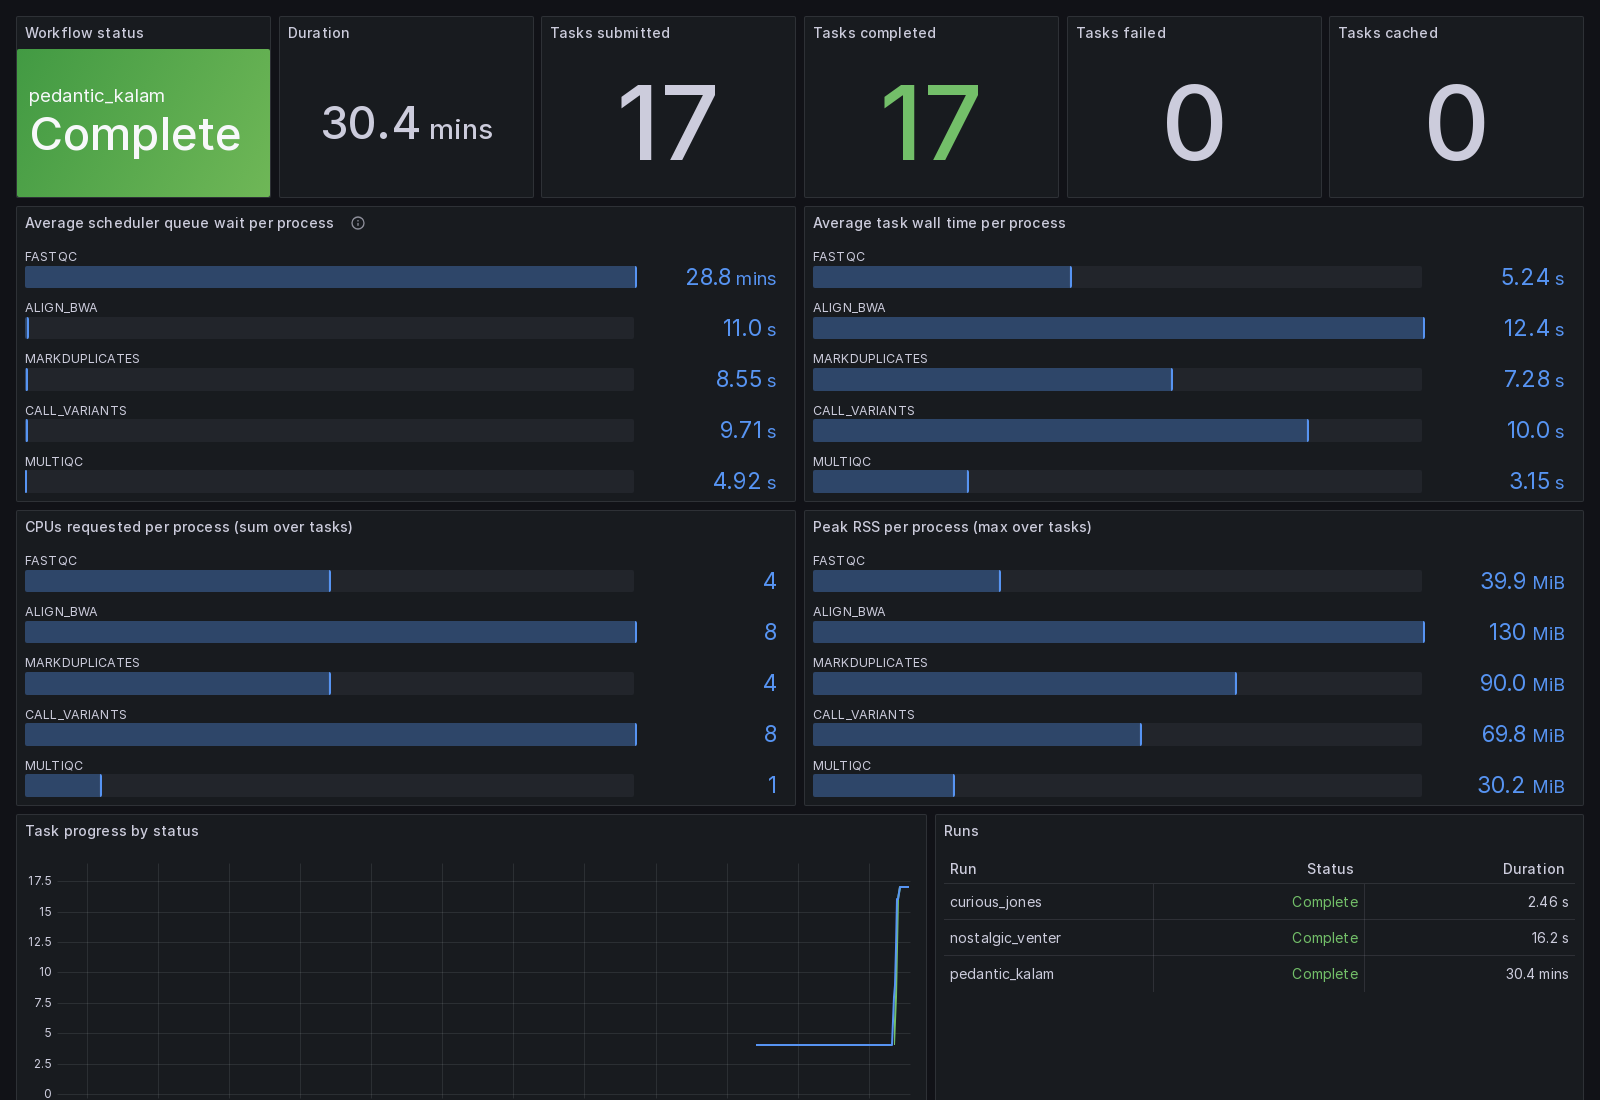
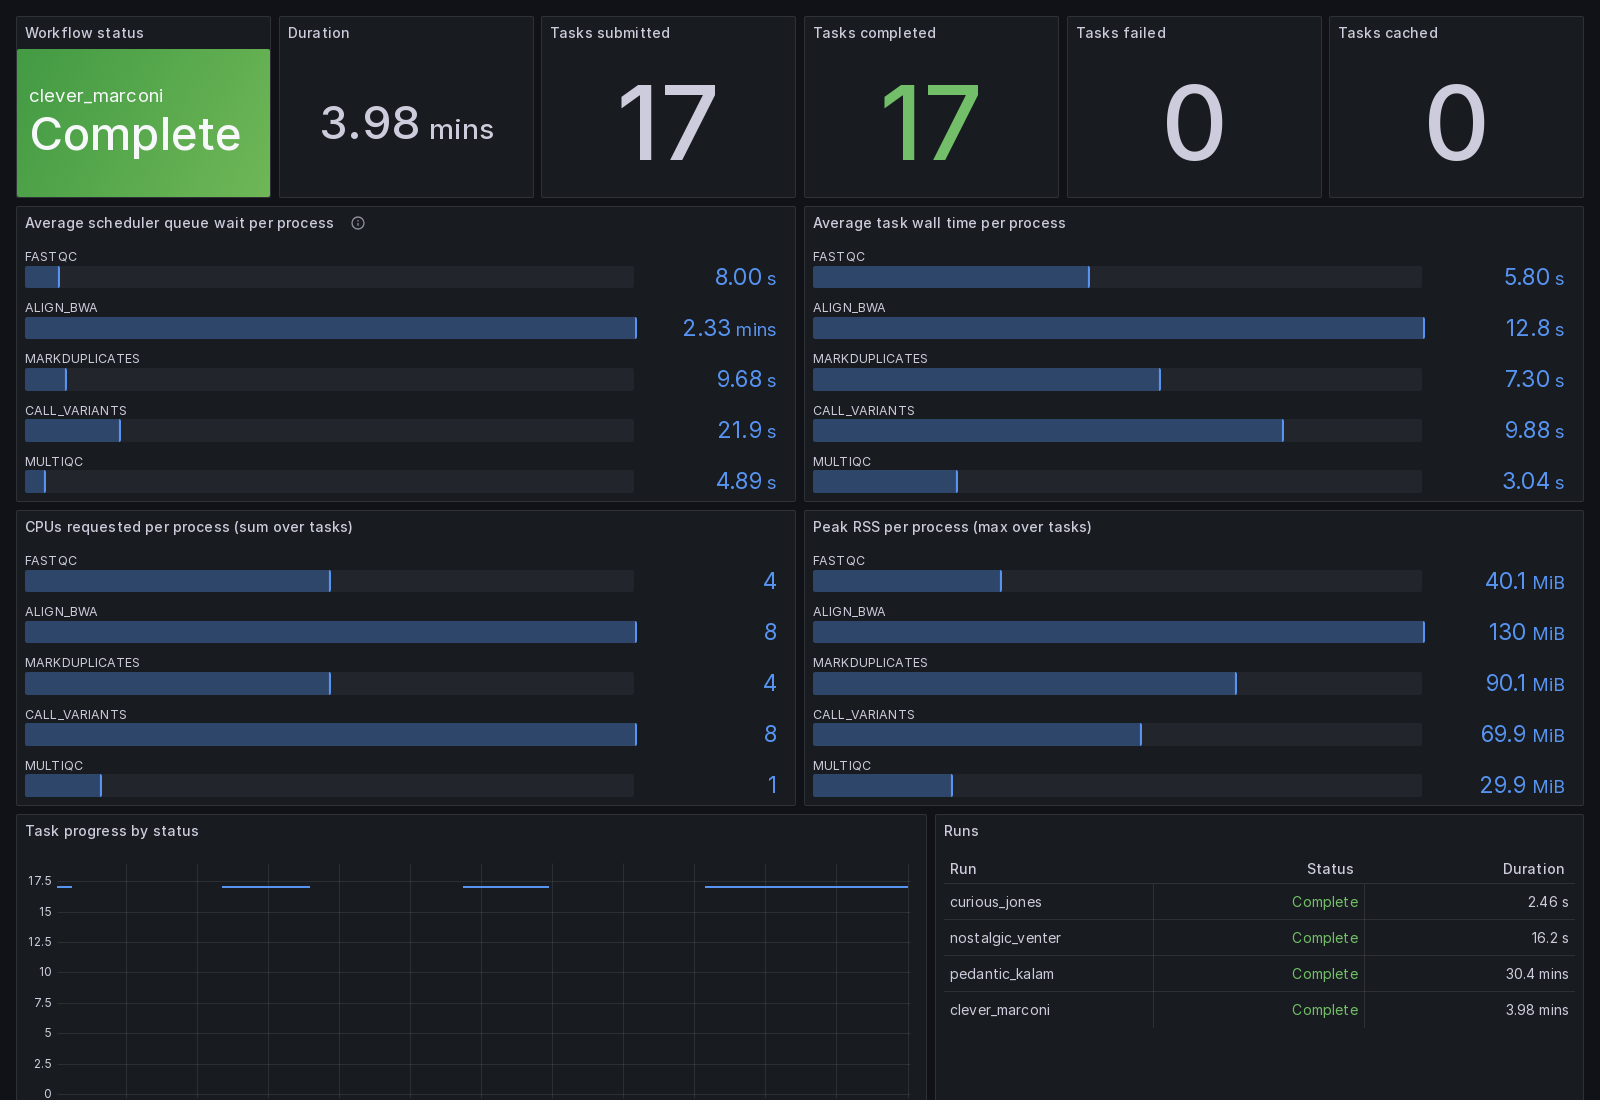
Replace screenshot with a clean demo run; add Need and solution section
- New render from run clever_marconi (3.98 min, no stall): ALIGN_BWA's
  2.3-minute average queue wait comes from 2-CPU tasks queuing on the
  4-CPU node — genuine resource contention, told in the caption
- README 'Need and solution': the 2026 observability picture for
  on-premise clusters, the three questions the dashboard answers, why
  textfile-first, link to the blog post

diff --git a/README.md b/README.md
@@ -11,8 +11,34 @@ all**.
 
 ![nf-prometheus Grafana dashboard: run status, per-process queue wait, wall time, CPUs and peak RSS](docs/img/dashboard.png)
 
-*A demo run on the bundled Slurm test cluster — including a genuine 28-minute
-queue stall on FASTQC that the dashboard surfaces at a glance.*
+*A demo run on the bundled Slurm test cluster. ALIGN_BWA's 2.3-minute
+average queue wait is real: its 2-CPU tasks queue behind each other on the
+4-CPU node — exactly the kind of contention this dashboard exists to show.*
+
+## Need and solution
+
+If you run Nextflow on a shared on-premise cluster, your observability
+options in 2026 are narrower than they look: the hosted platform's free
+tier is sized for individual use, self-hosting it is an enterprise license
+conversation, the open-source nf-tower was archived in January 2025, and
+`-with-weblog` hands you raw JSON events and an exercise for the reader.
+Meanwhile the questions that actually cost you time stay unanswered while
+the run is going: **how long are my tasks sitting in the queue, per
+process? Which process requests 32 GB and peaks at 4? Is the run stuck or
+just slow?**
+
+Almost every HPC site already operates a Prometheus + Grafana stack for
+node health. nf-prometheus is the missing bridge between Nextflow's head
+job and that stack — built for the constraint that makes generic exporters
+fail on HPC: the head job is itself a batch job, often on a compute node
+your Prometheus server cannot reach, sometimes on a cluster with no
+outbound network at all. Hence textfile-first export (a shared filesystem
+is the one interface every node has), with Pushgateway and HTTP modes
+where the network allows. Zero dependencies beyond the JDK, and metrics
+can never fail your pipeline.
+
+The longer story, with real incidents from the test cluster:
+[*Where did my task go? Monitoring Nextflow on Slurm without Tower*](https://www.callistolabs.eu/blog/monitoring-nextflow-on-slurm-without-tower/).
 
 ## Export modes
 
